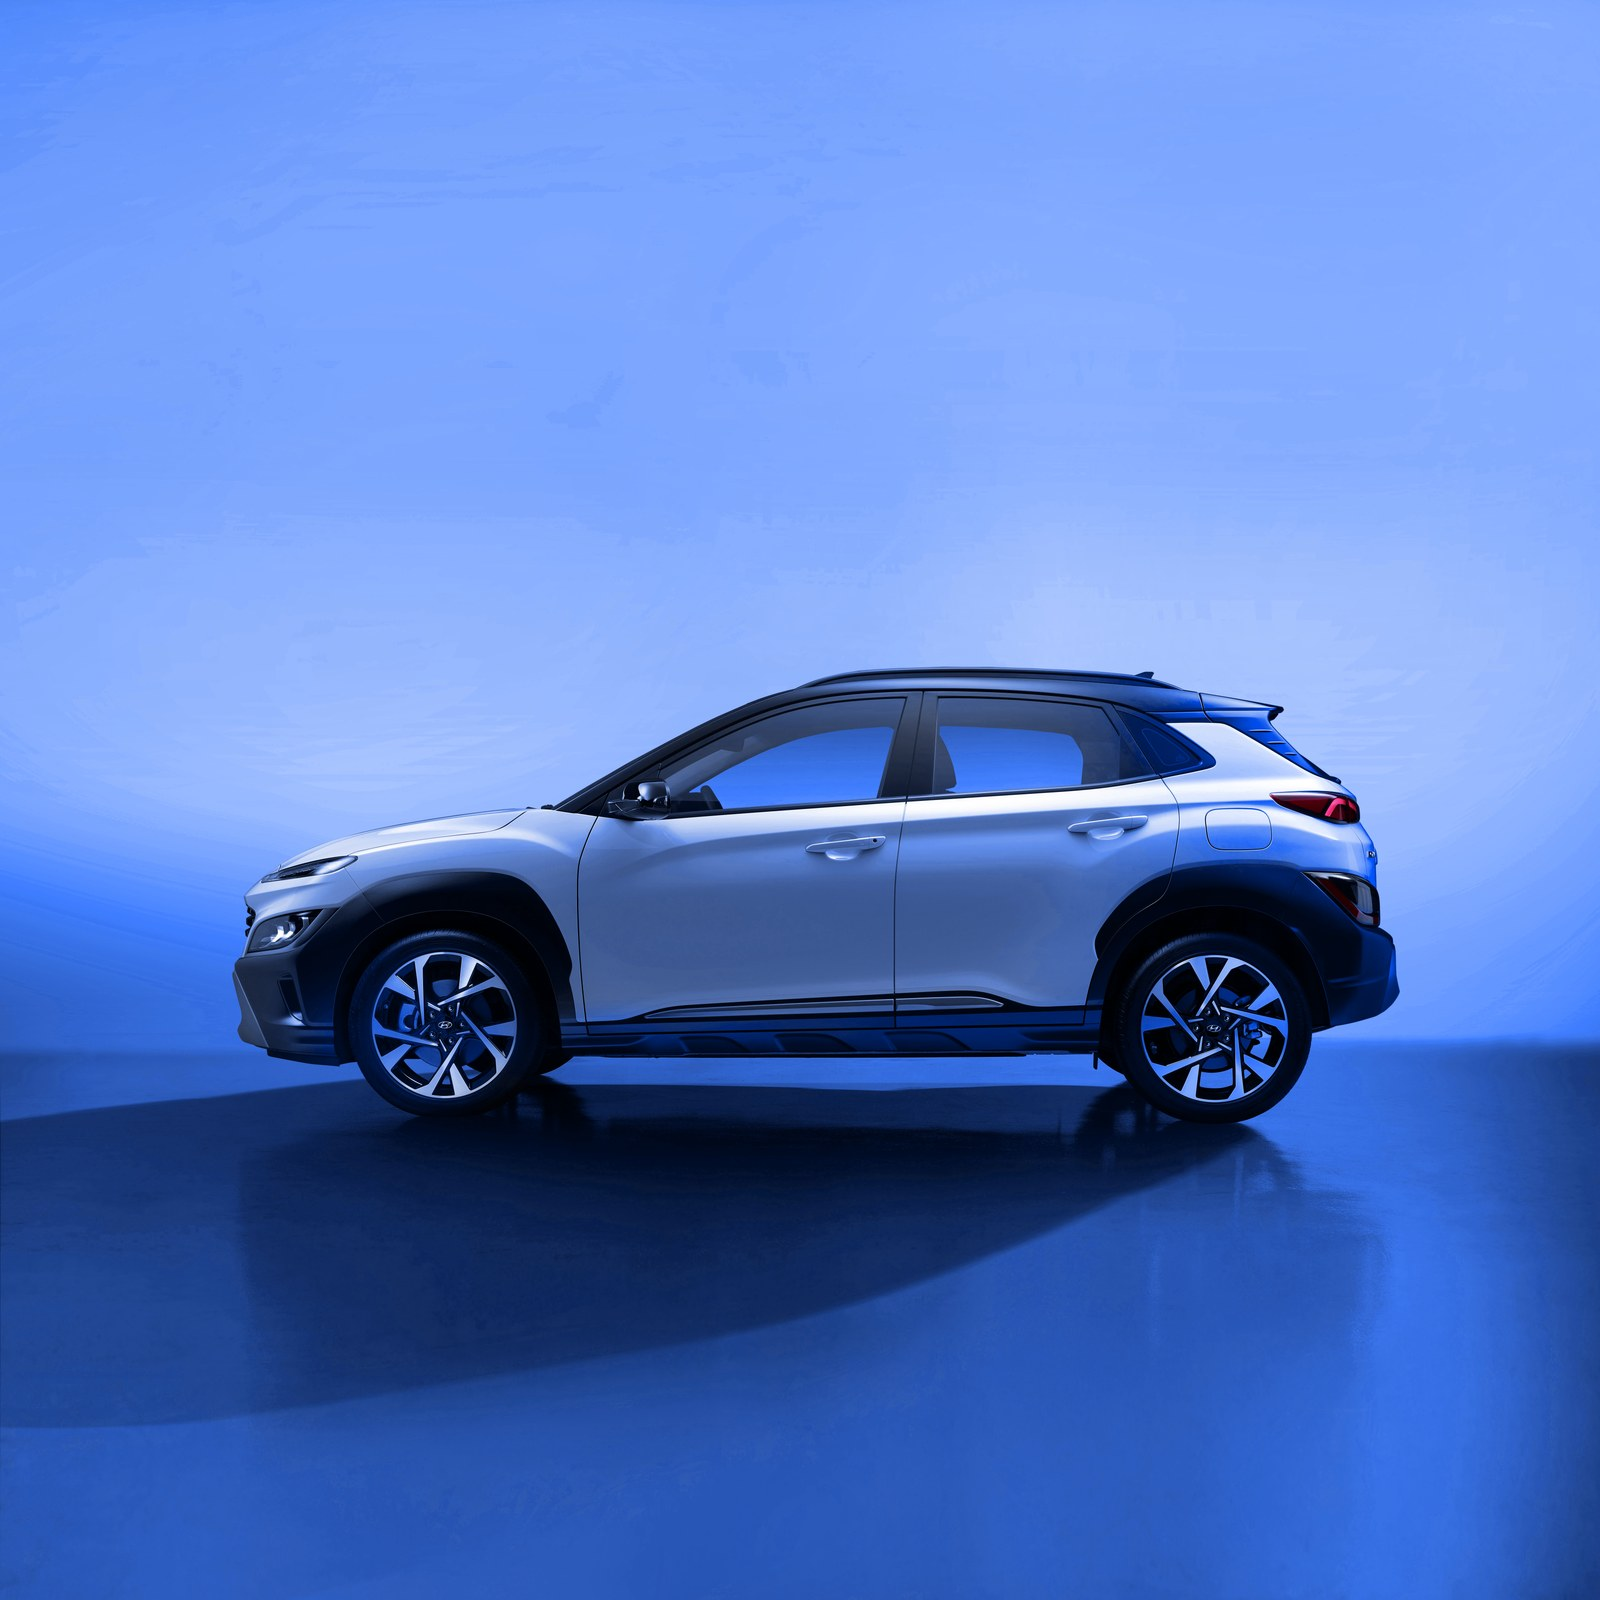
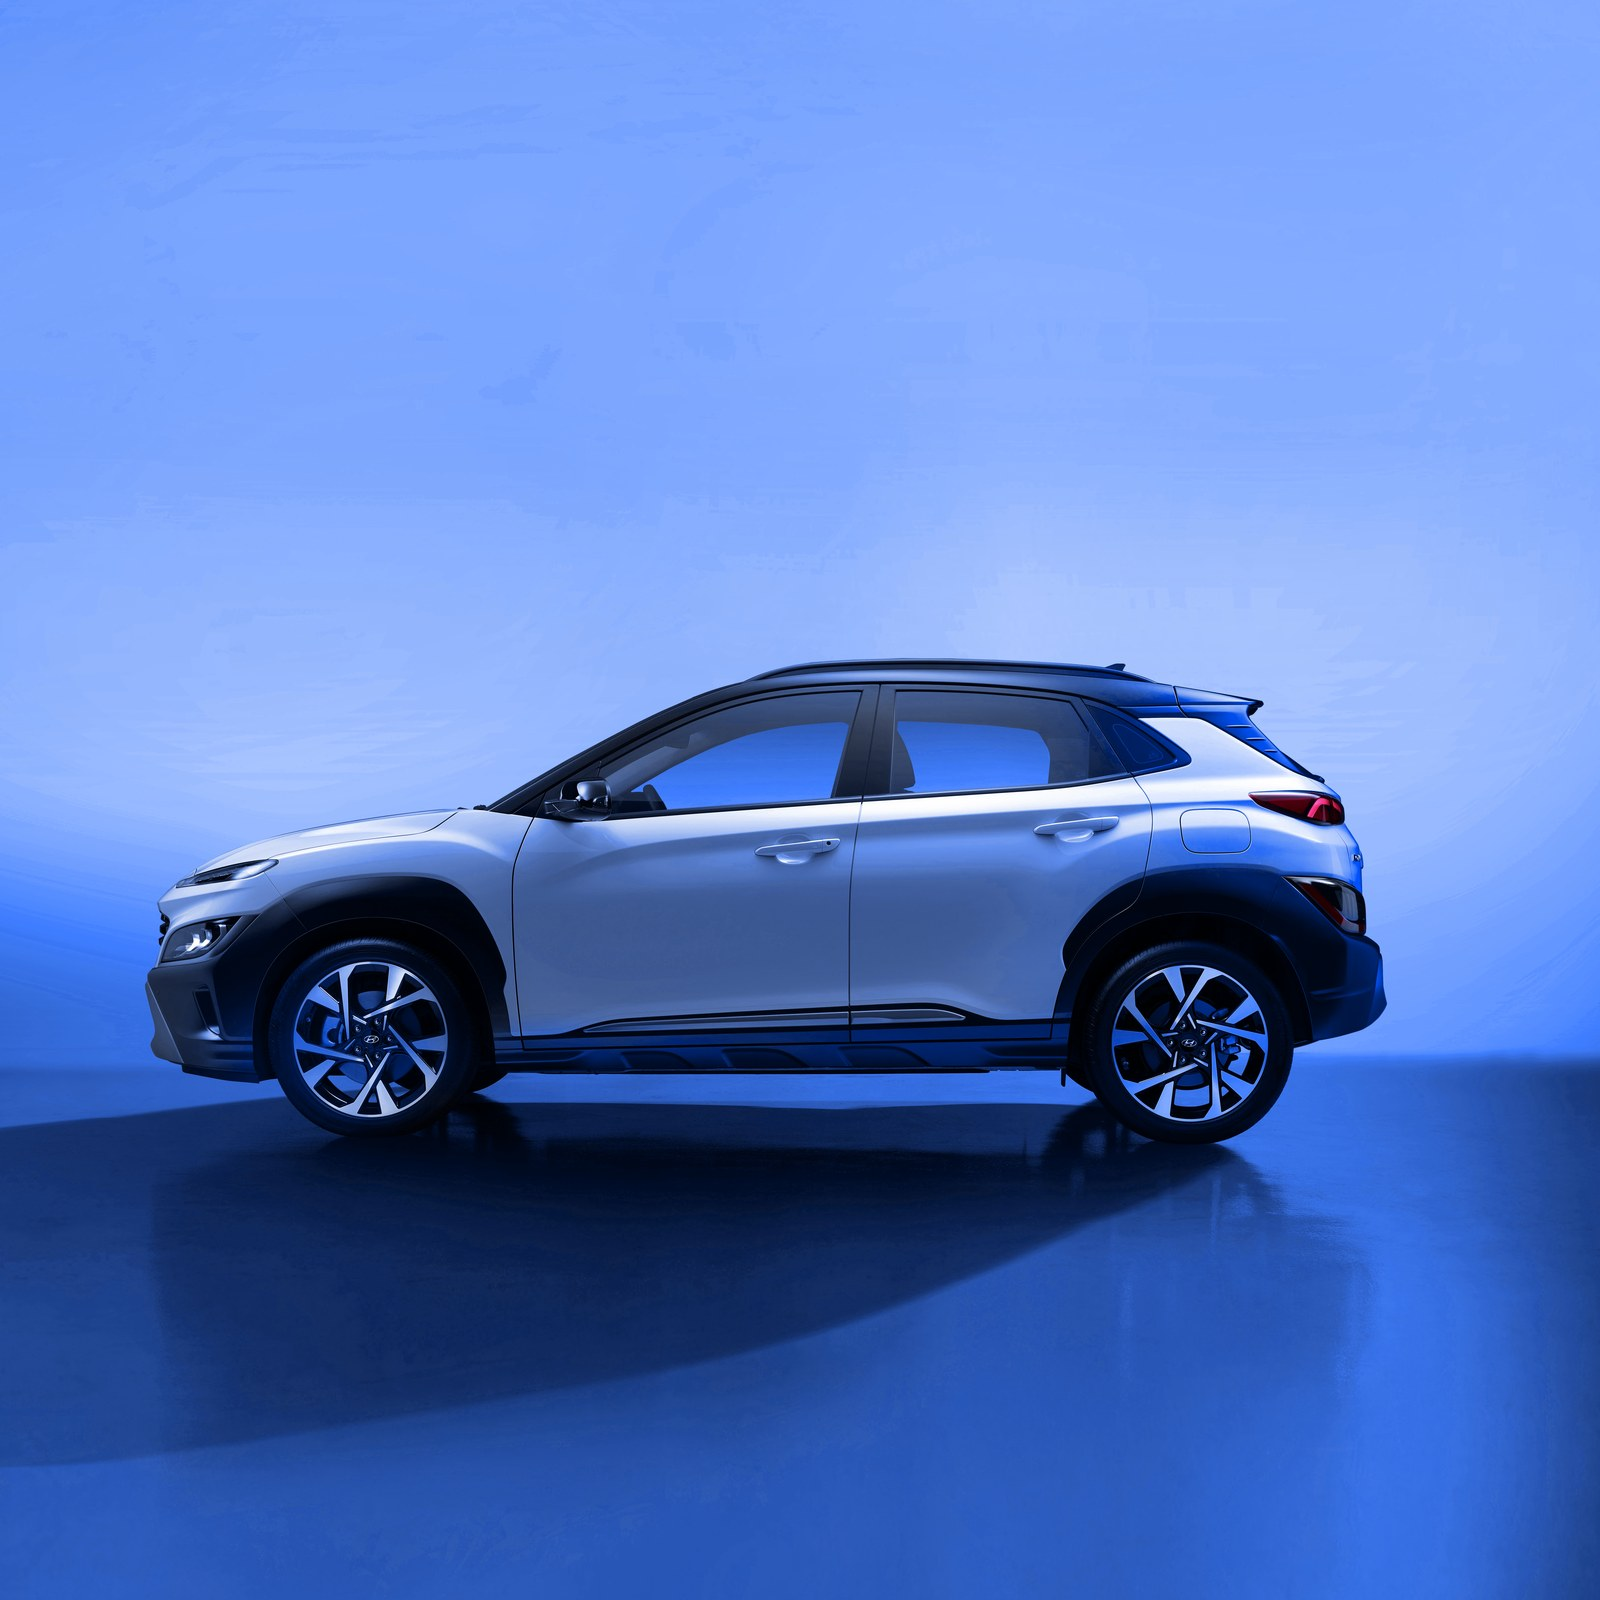
fix(hero): recentra o carro no painel visível
O carro estava CENTRADO NA FOTO — medi: 50,0% da largura, folgas de 16,3% e
16,4%. O desalinhamento percebido vinha do corte diagonal, que come a esquerda
do painel e desloca a área visível para a direita.

`object-position` não resolveria: a foto é quadrada e o painel também, então
object-cover não recorta quase nada e a propriedade não teria efeito. A correção
precisou ser no recorte da imagem.

Recortada do original 10200×10200 com o carro a 47% da largura (era 50%), zoom
0,94. Tentei 42% primeiro e passei do ponto: a diagonal comeu a frente do carro,
que é a pior parte para se perder.

Isso define o limite do ajuste — a diagonal impede levar o carro mais para a
esquerda sem cortar o bico. 47% é o ponto onde a frente passa livre e ainda
sobra respiro azul dos dois lados.

`object-[center_62%]` virou `object-center`: o 62% empurrava o enquadramento
para baixo, e com o recorte novo não há mais o que compensar.

Changed region(s): [[0.0, 0.4062, 1.0, 0.9375]]

diff --git a/apps/web/src/features/home/hero.tsx b/apps/web/src/features/home/hero.tsx
@@ -71,7 +71,7 @@ export function Hero() {
               // `priority` está depreciado; a forma atual é esta.
               loading="eager"
               fetchPriority="high"
-              className="object-cover object-[center_62%]"
+              className="object-cover object-center"
             />
             {/* Fade na base, curto de propósito.
                 Ele suaviza o encontro da foto com o branco da página. Era 56px
